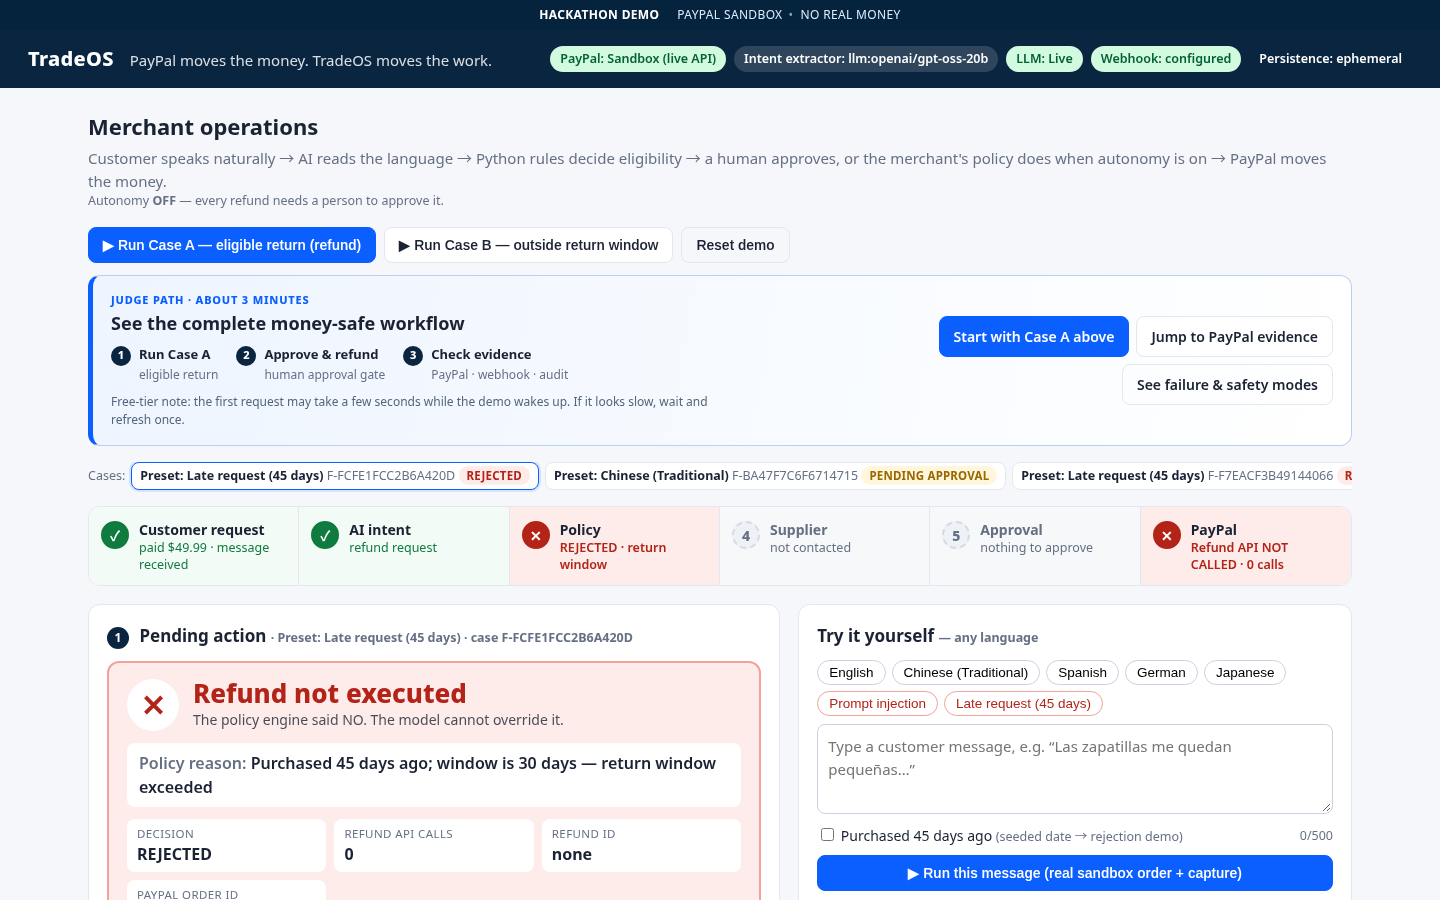
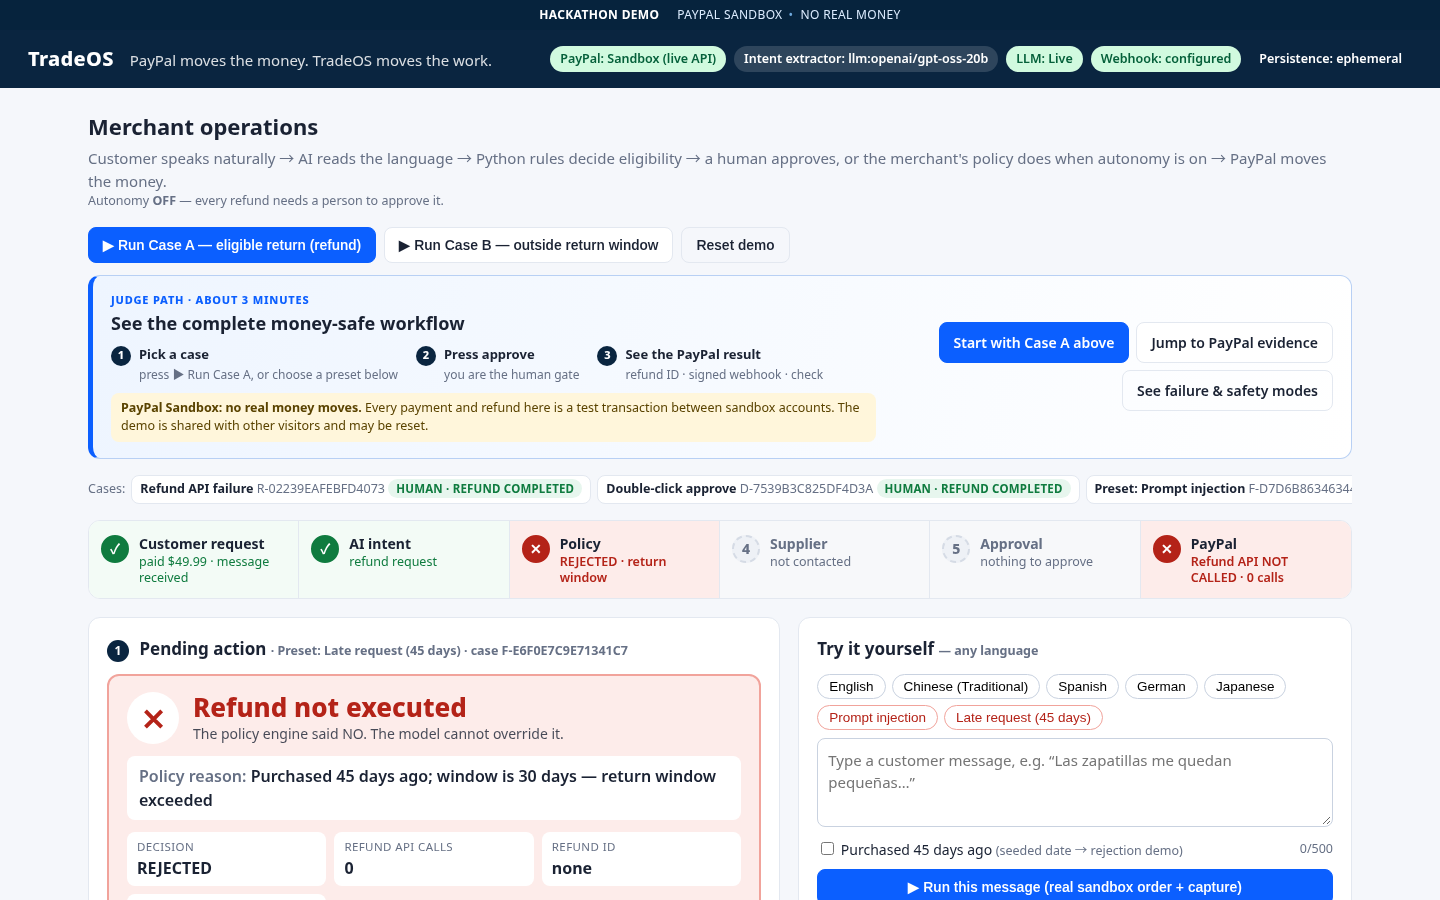
Docs: retake 13 screenshots after #46/#47 (same file names); Starter plan in render.yaml/README, drop free-tier wording

diff --git a/app/main.py b/app/main.py
@@ -64,7 +64,7 @@ def create_app(settings: Settings | None = None, paypal=None, extractor: IntentE
     money_limiter = RateLimiter(settings.money_rate_limit_per_minute, settings.money_rate_limit_per_hour,
                                 settings.money_rate_limit_global_per_hour)
 
-    # Render's free tier wipes the filesystem: reset + seed the demo on every start.
+    # Render (no persistent disk) wipes the filesystem: reset + seed the demo on every start.
     db.init(reset=settings.reset_on_start)
     if not db.list_cases():
         wf.seed_demo()
@@ -168,7 +168,7 @@ def create_app(settings: Settings | None = None, paypal=None, extractor: IntentE
                 "auto_enabled": settings.auto_enabled,
                 "auto_exchange_enabled": settings.auto_exchange_enabled,
                 "auto_refund_max_amount": str(settings.auto_refund_max_amount),
-                # Render free tier stores SQLite under /tmp; a restart or redeploy wipes it.
+                # Render (no disk) stores SQLite under /tmp; a restart or redeploy wipes it.
                 # Surfaced so a judge (or deploy-verify) can see the demo is ephemeral without scraping.
                 "persistence": "ephemeral" if settings.db_path.startswith("/tmp") else "durable"}
 

diff --git a/README.md b/README.md
@@ -10,14 +10,14 @@
 
 ### Judge quick start — about 3 minutes
 
-1. If the first request is slow, wait a few seconds for the free-tier service to wake and refresh once.
+1. The service runs on Render's Starter plan and does not sleep; if a page is slow, the AI call or PayPal is usually the cause — wait a few seconds and refresh once.
 2. Click **Run Case A — eligible return (refund)**. This creates a real PayPal Sandbox order and capture.
 3. Click **Approve & refund**. The Refund API is not called before this human approval.
 4. Read the four evidence cards: **PayPal refund**, **Signed PayPal notice**, **Checked against PayPal**, and the audit-chain badge.
 5. For the contrast, run **Case B** (policy rejects, Refund API = 0) or the **Chinese (Traditional)** preset (exchange, no refund).
 
 The dashboard keeps the complete path visible: **AI intent → Python policy → human approval → PayPal → webhook → reconciliation**.
-The top ribbon and badges identify the environment: **Hackathon Demo · PayPal Sandbox · No real money**. Render's free tier uses ephemeral SQLite data, so a restart may reseed the shared demo cases.
+The top ribbon and badges identify the environment: **Hackathon Demo · PayPal Sandbox · No real money**. The Starter service has no persistent disk (SQLite lives in `/tmp`), so data is ephemeral: a restart or deploy may reseed the shared demo cases.
 
 The matching recording plan is in [`docs/demo-video-script.md`](docs/demo-video-script.md); it treats the UI guide and evidence cards as part of the judge story rather than as separate documentation.
 
@@ -35,7 +35,7 @@ supplier without any refund.
 
 ![TradeOS dashboard — Case A: refund COMPLETED, confirmed by PayPal (live Sandbox)](docs/dashboard.png)
 
-More live-Sandbox screenshots (1440x900, retaken 2026-10-17 after Case A became the wrong-colour return): [evidence panel](docs/screenshots/caseA-evidence-live.png),
+More live-Sandbox screenshots (1440x900, retaken 2026-10-17 (UTC) after the guided hint, the Sandbox notice and the 'PayPal proves' panel landed (#46, #47)): [evidence panel](docs/screenshots/caseA-evidence-live.png),
 [evidence details](docs/screenshots/caseA-evidence-details-live.png), [reconcile + audit badge](docs/screenshots/caseA-reconcile-audit-live.png),
 [refund failure then retry](docs/screenshots/refund-failure-retry-live.png), [double click](docs/screenshots/double-click-live.png),
 [prompt injection](docs/screenshots/injection-live.png), [late request](docs/screenshots/late-request-live.png), [mobile 375px](docs/screenshots/mobile-375-live.png).
@@ -399,8 +399,8 @@ PayPal errors (HTTP status, name, message, `debug_id`) are stored on the case an
   editing the `cases` row alone cannot authorise a refund; someone who rewrites the chain too is the limit above.
   The approval's origin (`approval_source: human | auto`) is a chained field too, so "was this refund approved by a
   person or by the merchant's own policy?" is answered by the same verification, not by trusting the row.
-  "Reset demo" never deletes chains: it archives the cases (one chained entry each) and keeps every record. On Render's
-  free tier the disk itself is empty after a restart or deploy, so chains do not outlive a deploy.
+  "Reset demo" never deletes chains: it archives the cases (one chained entry each) and keeps every record. On Render
+  (no persistent disk) the filesystem itself is empty after a restart or deploy, so chains do not outlive a deploy.
 - **Web hardening.** Rate limits key on the client address from `CF-Connecting-IP` (set by Cloudflare in front of
   Render) or else the X-Forwarded-For entry `TRADEOS_TRUSTED_PROXY_HOPS` from the right, never the client-controlled
   leftmost value; one address can use at most 30 of the 200 global runs per hour. "Reset demo" asks for confirmation
@@ -445,8 +445,8 @@ outcome for a request the extractor cannot read, but it means 4 of the 7 presets
 The case page says so (`keyword-fallback`, "no LLM key set"), and the policy reason reads "not supported by the
 automated workflow; route to a human".
 
-With `TRADEOS_RESET_ON_START=1` every start archives the existing cases and seeds a fresh demo (on Render's free tier
-the disk is empty after a restart anyway). Refunds still `PENDING` or with an unknown outcome in a kept database are
+With `TRADEOS_RESET_ON_START=1` every start archives the existing cases and seeds a fresh demo (on Render without a persistent disk
+the filesystem is empty after a restart anyway). Refunds still `PENDING` or with an unknown outcome in a kept database are
 reconciled against PayPal in the background at startup.
 
 ### Environment variables
@@ -562,9 +562,9 @@ not a measured or verified saving.
 
 ## Deploy
 
-`render.yaml` is a Render Blueprint (free plan, SQLite in `/tmp`, demo reseeded at boot, health check `/healthz`).
+`render.yaml` is a Render Blueprint (Starter plan, no disk, SQLite in `/tmp`, demo reseeded at boot, health check `/healthz`).
 Secrets are entered in the Render dashboard. For the webhook, run `scripts/register_webhook.py` once against the public
-URL and set `PAYPAL_WEBHOOK_ID`. The free tier sleeps and wipes `/tmp` on restart; webhooks for cases from before a
+URL and set `PAYPAL_WEBHOOK_ID`. The service has no persistent disk, so `/tmp` is wiped on restart or deploy (Starter does not sleep); webhooks for cases from before a
 restart are acknowledged and ignored.
 
 ## Scope
